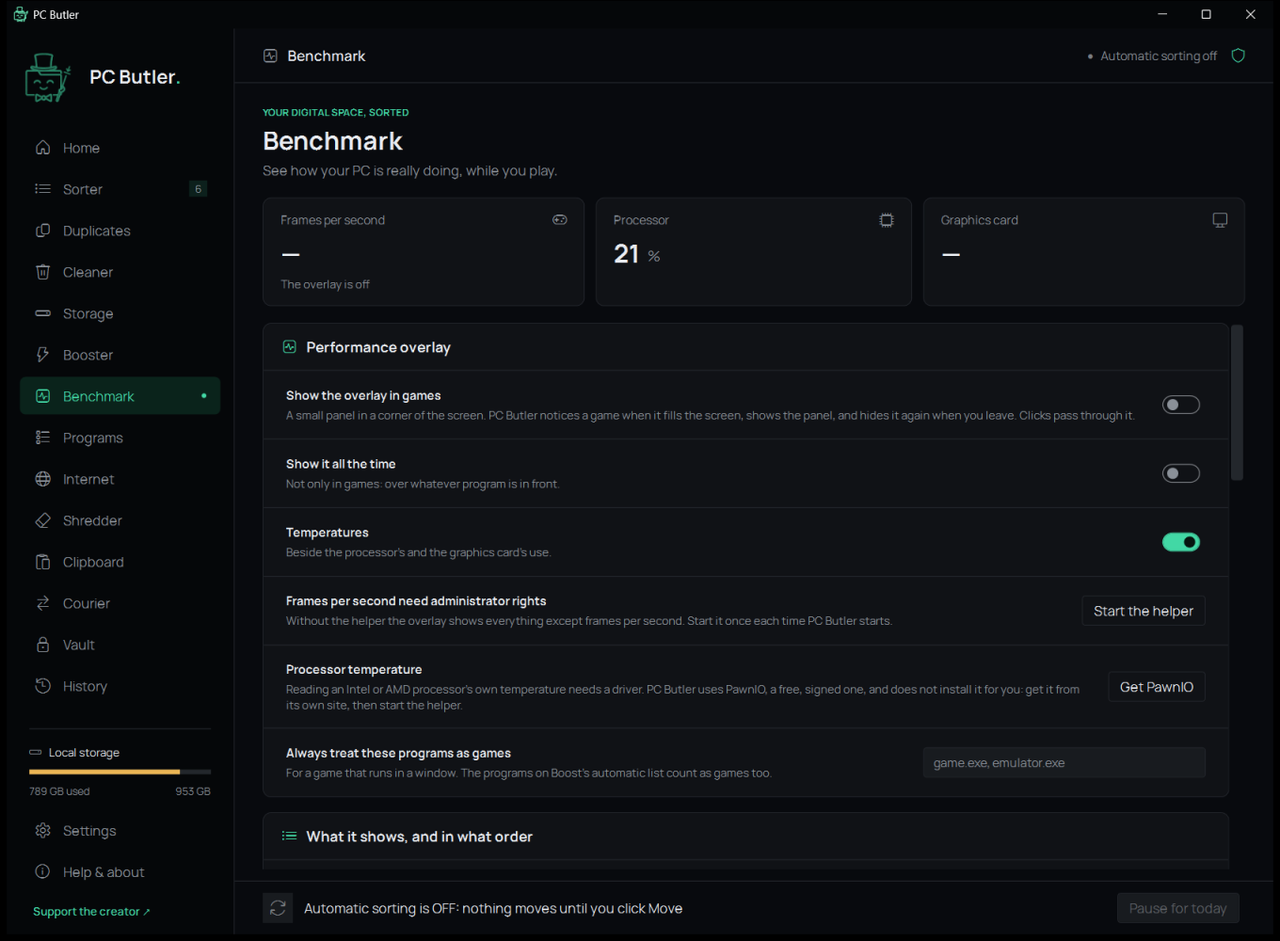
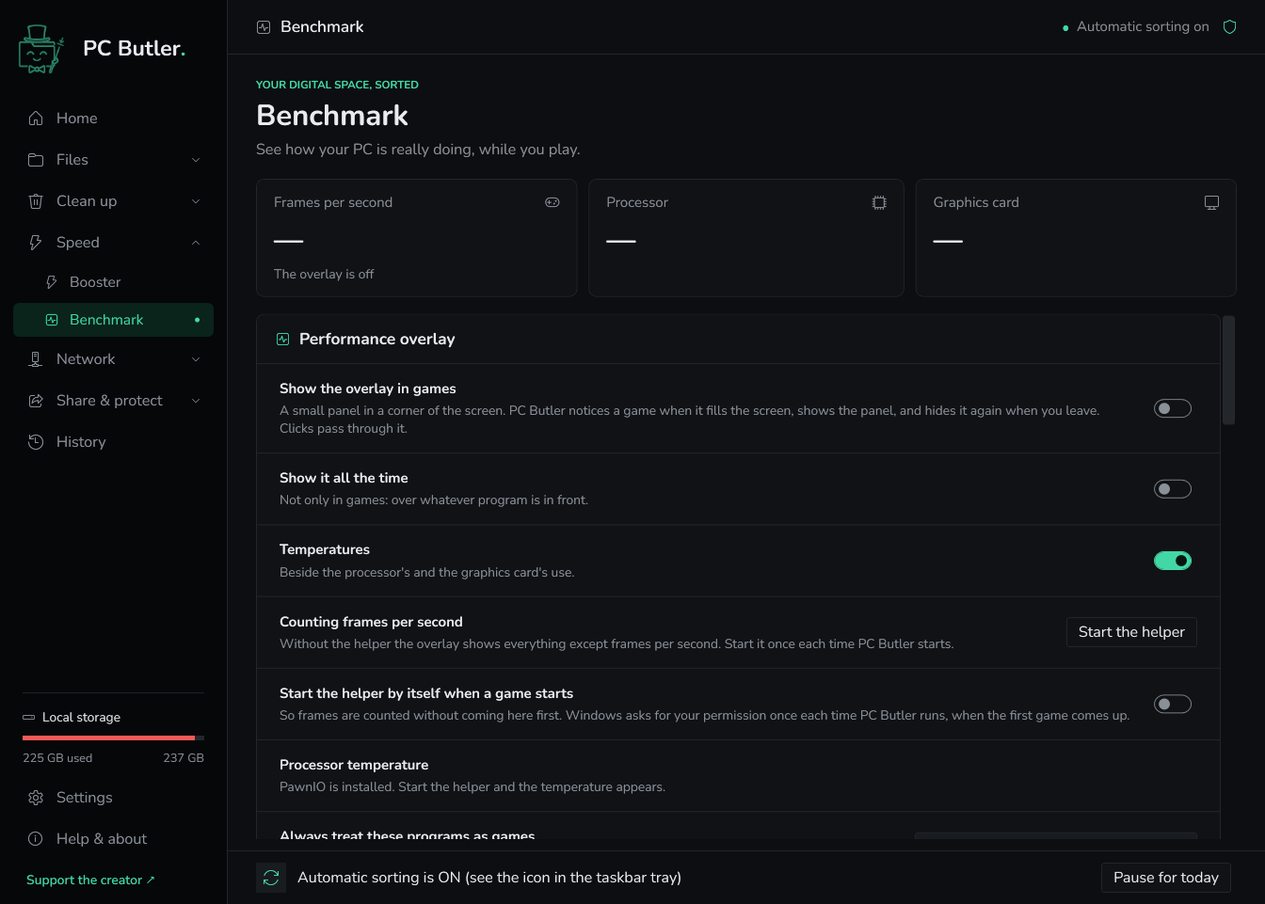
Docs and screenshots brought up to date (1.22.44)
New EN and AR screenshots (Home, Sorter, Booster Advanced, Benchmark,
Scan LAN, Get the phone app) drawn from the current build with made-up
data. README describes Search, the command palette, Scan LAN, the sidebar
groups and the Android app; HANDOVER rows for 1.22.41 to 1.22.43; the
Android privacy policy covers clipboard, apps and benchmark.

diff --git a/src/PCButler.Core/AppInfo.cs b/src/PCButler.Core/AppInfo.cs
@@ -7,7 +7,7 @@ public static class AppInfo
 {
     public const string Name = "PC Butler";
     /// <summary>Must match the tag of the GitHub release this is published as (v1.22.17).</summary>
-    public const string Version = "1.22.43";
+    public const string Version = "1.22.44";
     /// <summary>Where updates are looked for.</summary>
     public const string Repo = "hmodymac8-droid/PC-Butler";
     public const string ExeName = "PCButler.exe";

diff --git a/README.md b/README.md
@@ -2,7 +2,7 @@
 
 **English** | [العربية](#العربية)
 
-A small Windows program that keeps your PC tidy. It moves files that have been sitting in your Downloads folder for a while into category folders (Documents, Pictures, Videos…), either automatically in the background or only when you say so, and every change is logged and can be undone. It also finds duplicate files, cleans junk files, shows what fills your drives, trims startup apps, uninstalls and updates programs, measures your internet speed and keeps private files in an encrypted vault.
+A small Windows program that keeps your PC tidy. It moves files that have been sitting in your Downloads folder for a while into category folders (Documents, Pictures, Videos…), either automatically in the background or only when you say so, and every change is logged and can be undone. It also finds duplicate files, cleans junk files, shows what fills your drives, trims startup apps, uninstalls and updates programs, finds any file in an instant, measures your internet speed, lists the devices on your network, sends files to your other PCs and your phone, and keeps private files in an encrypted vault. A companion app for Android phones does much the same on the phone.
 
 PC Butler is the C# rewrite of [Downloads Sorter](https://github.com/hmodymac8-droid/downloads-sorter), with the same look and everything it could do, plus the pages added since. On first start it brings along Downloads Sorter's settings, history and vault (it copies them; the old program keeps working).
 
@@ -14,9 +14,15 @@ PC Butler is the C# rewrite of [Downloads Sorter](https://github.com/hmodymac8-d
 
 ![PC Butler: the Benchmark page](docs/screenshot-benchmark.png)
 
+![PC Butler: the Scan LAN page](docs/screenshot-lan.png)
+
+The pages sit in groups in the sidebar: **Files** (Search, Sorter, Duplicates, Storage), **Clean up** (Cleaner, Programs, Shredder), **Speed** (Booster, Benchmark), **Network** (Internet, Scan LAN) and **Share & protect** (Courier, Clipboard, Vault), with Home and History on their own.
+
 ## Features
 
 - **Home.** The PC at a glance, on ring gauges: processor, memory and graphics-card use, the graphics card's temperature, free space on every drive, and a neatness score out of 100 with the reasons it lost points. The tray icon shows processor and memory use and warns when they stay nearly full.
+- **Search.** Every file and folder on your drives, found as you type, from an index PC Butler keeps up to date by itself (no administrator rights). Win + F opens a search box from any program.
+- **Command palette.** Alt + Space in any program opens one box for everything: type a few letters to jump to a page or a Settings tab or to run an action (Sort now, Boost, the overlay, Check for updates…), with matching files underneath. `=` works out sums, sizes and transfer times.
 - **Sorts by age and type.** Files older than a set number of days (7 by default) move into category folders by file extension. Each category can have its own age, and can delete its files (to the Recycle Bin) instead of moving them.
 - **Preview first.** See exactly which files will move and where before anything happens, and exclude the ones you want to keep.
 - **Automatic mode.** Runs in the background with a tray icon, checks on a schedule (every so many minutes, daily or weekly at a time you set), and can start with Windows (a separate switch). Cleaning can be scheduled the same way. After each run a report window lets you approve or undo what moved.
@@ -28,6 +34,7 @@ PC Butler is the C# rewrite of [Downloads Sorter](https://github.com/hmodymac8-d
 - **Benchmark.** A performance overlay for games: frames per second and frame time, processor, graphics card, memory (RAM) and video memory (VRAM), temperatures, the graphics card's fan, network speed and a clock in a corner of the screen, each with its own tick box. You arrange it yourself: the order of the readings, a column or one line, its size, how far from the corner, and its colours. PC Butler notices a game when it fills the screen and shows the overlay by itself, or it can stay on all the time; it is off until you switch it on, and clicks pass through it. It is an ordinary window on top, so it shows over windowed and borderless games, not over exclusive full screen. Frames per second are counted by the administrator helper from Windows' own events, with nothing added to the game. Each game session is kept with its average and highest frame rate, the slowest 1% and the hottest temperatures. PC Butler also records what each app uses of the processor, the graphics card, the memory and the disk (and of the internet, while the helper runs), day by day for 90 days, for a report that can be saved as a spreadsheet.
 - **Programs.** Every installed program in one list, with the drive it is on and a filter by drive; double-click one to open it. Uninstall runs the program's own uninstaller and then shows what it left behind (folders, shortcuts, its own registry key) for you to tick: folders go to the Recycle Bin, registry keys are saved to a `.reg` file first. Updates come from winget, Windows' package manager.
 - **Internet.** A speed test: download, upload and response time, measured against Cloudflare's speed-test servers, with a history of earlier results. The page also shows the PC's local and public IP address, each with a Copy button.
+- **Scan LAN.** Lists every device on your network (the same Wi-Fi or cable) with its IP and MAC address, its name, the maker of its network adapter, what kind of device it probably is and whether it is online now, with its ping time. Phones and PCs that ignore pings are found too, as every address is also asked for its MAC address. Each device can be copied, connected to (its web page, shared folders, Remote Desktop, SSH, VNC, or Courier to send it files), given a name of your own, and opened in Info. Devices seen before stay listed as offline, with when they were last seen.
 - **Vault.** Password-protected storage: files you add are encrypted (AES-256) and removed from where they were.
 - **Auto clean-up.** Optionally recycle old files in a category (for example installers after 90 days). Only files the program itself moved are touched.
 - **Never-move list.** Protect files by name or pattern (`*.torrent`). Files you put back with Undo are not moved again automatically.
@@ -40,8 +47,17 @@ PC Butler is the C# rewrite of [Downloads Sorter](https://github.com/hmodymac8-d
 - **Hotkeys.** Shortcuts that work in any program, set on a tab of the Settings page: open PC Butler, sort now, start or stop Boost for the program in front, show or hide the overlay or the drop zone, open Courier.
 - **English and Arabic.** The interface follows Windows' language, or you pick one in Settings.
 - **Clipboard manager.** Keeps what you copy (text, files, pictures; 500 items by default), with search and pinning. An item can be locked with a password: it is kept encrypted, shows nothing of itself, and asks for the password when it is pasted, unless you unlock it for a while. A shortcut opens the list in any program and pastes the item you pick. Off until you turn it on.
+- **Phone app.** *Help & about > Get the phone app* shows a QR code: scan it with the phone's camera to download the Android app, no Play Store needed (the link always gives the latest build). See *Phone app* below.
 - **Updates.** Checks this repository's releases, notifies you when a new version is out, and updates with one click (or automatically, if you turn that on).
 - **Safe by design.** Unfinished downloads and shortcuts are skipped, nothing is ever overwritten, and deletions go to the Recycle Bin unless you choose to delete for good.
+
+## Phone app (Android)
+
+PC Butler for Android is a companion for the phone: Courier (send files and folders to and from your PCs by the same nine-digit IDs, with notifications when they arrive), Clipboard (send what you copied to the PC and back, with a floating button that sends it in one tap), Sorter, Duplicates, Storage, Cleaner, Search, Apps (open, inspect or uninstall apps), Benchmark (the phone's processor and storage measured), a Vault and History, in English and Arabic.
+
+![The Get the phone app window](docs/screenshot-phone-app.png)
+
+Get it from *Help & about > Get the phone app* on the PC, or straight from [dist/android/PCButler.apk](dist/android/PCButler.apk). Android asks once to allow installing from that source. The Google Play version is the same app without "Send what I copy by itself", which Google Play does not allow; the downloaded one has it. The app's privacy policy is in [docs/privacy-policy.md](docs/privacy-policy.md).
 
 ## Administrator rights
 
@@ -80,13 +96,16 @@ This publishes the program with the .NET runtime included (nothing else is neede
 |---|---|
 | `src/PCButler.Core` | The engine: settings, rules, moving, history, undo, Recycle Bin, duplicates, cleaner, storage, booster and Boost, the administrator helper, installed programs, speed test, vault, updates and the background loop |
 | `src/PCButler` | The windows (WPF): control panel, tray icon, report window, launch screen |
+| `src/PCButler.Android` | The Android phone app (.NET MAUI), sharing the engine's Courier, sorting and vault code |
 | `tests/PCButler.Tests` | Tests of the engine |
 | `installer/installer.iss` | The setup wizard (Inno Setup script) |
 | `build.ps1` | Publishes the program and compiles the setup wizard |
+| `build-android.ps1` | Builds and signs the phone app and copies it to `dist/android/PCButler.apk` (`-Bundle` makes the Google Play bundle) |
+| `docs/` | Screenshots, the phone app's privacy policy and the plan for search |
 
 Settings, the history log, the activity log and registry backups are stored in `%APPDATA%\PCButler`.
 
-The speed test and the public-IP line talk to `speed.cloudflare.com` and update checks talk to GitHub and winget's source. Courier talks only to the other PCs, and only while it is switched on. It also uses the public directory of the BitTorrent network (its DHT) to look IDs up: the computers in that directory see this PC's internet address, as they do for anyone using a torrent program, and no file or file name is ever sent to them. Each PC running Courier also asks its own router to forward one port to it. Nothing else leaves the PC.
+The speed test and the public-IP line talk to `speed.cloudflare.com` and update checks talk to GitHub and winget's source. Scan LAN talks only to devices on your own network, apart from reading the list of adapter makers from Wireshark's public list once every 120 days. Courier talks only to the other PCs, and only while it is switched on. It also uses the public directory of the BitTorrent network (its DHT) to look IDs up: the computers in that directory see this PC's internet address, as they do for anyone using a torrent program, and no file or file name is ever sent to them. Each PC running Courier also asks its own router to forward one port to it. Nothing else leaves the PC.
 
 ## Support the project
 
@@ -112,13 +131,31 @@ The bundled fonts in `src/PCButler/Fonts`, [DM Sans](https://github.com/googlefo
 
 [English](#pc-butler) | **العربية**
 
-برنامج صغير لنظام ويندوز يحافظ على ترتيب جهازك. ينقل الملفات التي بقيت في مجلد التنزيلات لفترة إلى مجلدات مصنّفة (مستندات، صور، فيديو…)، إما تلقائيًا في الخلفية أو فقط عندما تطلب ذلك، وكل تغيير يُسجَّل ويمكن التراجع عنه. كما يعثر على الملفات المكررة، وينظّف الملفات غير الضرورية، ويعرض ما يملأ أقراصك، ويخفّف برامج بدء التشغيل، ويلغي تثبيت البرامج ويحدّثها، ويقيس سرعة الإنترنت، ويحفظ الملفات الخاصة في خزنة مشفّرة.
+برنامج صغير لنظام ويندوز يحافظ على ترتيب جهازك. ينقل الملفات التي بقيت في مجلد التنزيلات لفترة إلى مجلدات مصنّفة (مستندات، صور، فيديو…)، إما تلقائيًا في الخلفية أو فقط عندما تطلب ذلك، وكل تغيير يُسجَّل ويمكن التراجع عنه. كما يعثر على الملفات المكررة، وينظّف الملفات غير الضرورية، ويعرض ما يملأ أقراصك، ويخفّف برامج بدء التشغيل، ويلغي تثبيت البرامج ويحدّثها، ويعثر على أي ملف فورًا، ويقيس سرعة الإنترنت، ويعرض الأجهزة المتصلة بشبكتك، ويرسل الملفات إلى حواسيبك الأخرى وجوالك، ويحفظ الملفات الخاصة في خزنة مشفّرة. وله تطبيق مرافق لجوالات أندرويد يقوم بأغلب ذلك على الجوال.
 
 PC Butler هو إعادة كتابة لبرنامج [Downloads Sorter](https://github.com/hmodymac8-droid/downloads-sorter) بلغة C#، بالشكل نفسه وبكل ما كان يفعله، مع الصفحات التي أُضيفت بعده. عند أول تشغيل ينسخ إعدادات Downloads Sorter وسجله وخزنته (نسخًا، فيبقى البرنامج القديم يعمل).
+
+</div>
+
+![PC Butler: الصفحة الرئيسية](docs/screenshot-ar.png)
+
+![PC Butler: صفحة الفرز](docs/screenshot-sorter-ar.png)
+
+![PC Butler: تبويب «متقدّم» في المسرّع](docs/screenshot-booster-ar.png)
+
+![PC Butler: صفحة قياس الأداء](docs/screenshot-benchmark-ar.png)
+
+![PC Butler: صفحة فحص الشبكة](docs/screenshot-lan-ar.png)
+
+<div dir="rtl">
+
+الصفحات مجمّعة في الشريط الجانبي: **الملفات** (البحث، الفرز، المكررات، التخزين)، و**التنظيف** (المنظّف، البرامج، الحذف العميق)، و**السرعة** (المسرّع، قياس الأداء)، و**الشبكة** (الإنترنت، فحص الشبكة)، و**المشاركة والحماية** (الساعي، الحافظة، الخزنة)، والرئيسية والسجل كلٌّ وحده.
 
 ### المميزات
 
 - **الرئيسية.** جهازك في لمحة، على عدّادات دائرية: استهلاك المعالج والذاكرة وكرت الشاشة، وحرارة كرت الشاشة، والمساحة الحرة في كل قرص، ونقاط ترتيب من 100 مع أسباب الخصم. أيقونة البرنامج بجانب الساعة تعرض استهلاك المعالج والذاكرة وتنبّه عند امتلائهما المستمر.
+- **البحث.** كل ملف ومجلد على أقراصك يظهر وأنت تكتب، من فهرس يحدّثه PC Butler بنفسه (دون صلاحيات المسؤول). و Win + F يفتح مربع بحث من أي برنامج.
+- **لوحة الأوامر.** Alt + Space في أي برنامج يفتح مربعًا واحدًا لكل شيء: اكتب بضعة أحرف للانتقال إلى صفحة أو تبويب في الإعدادات أو لتنفيذ أمر (الفرز الآن، التعزيز، لوحة الأداء، البحث عن تحديثات…)، والملفات المطابقة تظهر تحتها. و `=` يحسب العمليات والأحجام وأوقات النقل.
 - **الفرز حسب العمر والنوع.** الملفات الأقدم من عدد محدد من الأيام (7 افتراضيًا) تُنقل إلى مجلدات التصنيف حسب امتداد الملف، ويمكن تحديد عمر مختلف لكل تصنيف، أو جعل التصنيف يحذف ملفاته (إلى سلة المحذوفات) بدل نقلها.
 - **المعاينة أولًا.** شاهد الملفات التي ستُنقل ووجهتها قبل أي تنفيذ، واستثنِ ما تريد إبقاءه.
 - **الوضع التلقائي.** يعمل في الخلفية مع أيقونة بجانب الساعة، ويفحص المجلد وفق جدول زمني (كل عدد من الدقائق، أو يوميًا أو أسبوعيًا في وقت تحدده)، ويبدأ مع تسجيل الدخول. ويمكن جدولة التنظيف بالطريقة نفسها. بعد كل عملية تظهر نافذة تقرير للموافقة على ما نُقل أو التراجع عنه.
@@ -130,6 +167,7 @@ PC Butler هو إعادة كتابة لبرنامج [Downloads Sorter](https://g
 - **قياس الأداء.** لوحة أداء للألعاب: الإطارات في الثانية وزمن الإطار والمعالج وكرت الشاشة والذاكرة (RAM) وذاكرة كرت الشاشة (VRAM) ودرجات الحرارة ومروحة الكرت وسرعة الشبكة والساعة في زاوية الشاشة، ولكل منها مربع اختيار. وترتّبها بنفسك: ترتيب القراءات، عمود أو سطر واحد، الحجم، البعد عن الزاوية، والألوان. يلاحظ PC Butler اللعبة عندما تملأ الشاشة فيُظهر اللوحة من تلقاء نفسه، أو تبقى ظاهرة دائمًا؛ وهي متوقفة حتى تفعّلها، والنقرات تمرّ من خلالها. هي نافذة عادية فوق النوافذ، فتظهر فوق الألعاب التي تعمل في نافذة أو بلا إطار، لا فوق وضع ملء الشاشة الحصري. الإطارات يعدّها مساعد المسؤول من أحداث ويندوز نفسه دون إضافة شيء إلى اللعبة. وتُحفظ كل جلسة لعب بمتوسط الإطارات وأعلاها وأبطأ 1% وأعلى درجات الحرارة. ويسجّل PC Butler أيضًا ما يستهلكه كل تطبيق من المعالج وكرت الشاشة والذاكرة والقرص (ومن الإنترنت أثناء عمل المساعد)، يومًا بيوم لمدة 90 يومًا، في تقرير يمكن حفظه كجدول بيانات.
 - **البرامج.** كل البرامج المثبّتة في قائمة واحدة، مع القرص الذي عليه كل برنامج وفلتر حسب القرص، والنقر المزدوج يفتح البرنامج. إلغاء التثبيت يشغّل برنامج الإزالة الخاص بالبرنامج ثم يعرض ما تركه خلفه (مجلدات، اختصارات، مفتاحه في السجل) لتختار منه: المجلدات تذهب إلى سلة المحذوفات، ومفاتيح السجل تُحفظ أولًا في ملف `.reg`. التحديثات تأتي من winget، مدير الحزم الخاص بويندوز.
 - **الإنترنت.** قياس السرعة: التنزيل والرفع وزمن الاستجابة، مقابل خوادم Cloudflare لقياس السرعة، مع سجل للنتائج السابقة. وتعرض الصفحة عنوان IP المحلي والعام للحاسوب، ولكل منهما زر «نسخ».
+- **فحص الشبكة.** يعرض كل جهاز على شبكتك (نفس الواي فاي أو الكيبل) مع عنوان IP وعنوان MAC واسمه والشركة المصنعة لبطاقة الشبكة فيه ونوعه المرجّح وهل هو متصل الآن مع زمن الاستجابة. تظهر حتى الجوالات والأجهزة التي لا ترد على ping، لأن كل عنوان يُسأل أيضًا عن عنوان MAC الخاص به. لكل جهاز: نسخ، واتصال (صفحته على المتصفح، أو مجلداته المشاركة، أو سطح المكتب البعيد، أو SSH أو VNC، أو الساعي لإرسال ملفات إليه)، وتسمية باسم من اختيارك، ومعلومات. الأجهزة التي ظهرت من قبل تبقى في القائمة كغير متصلة مع آخر وقت شوهدت فيه.
 - **الخزنة.** مساحة محمية بكلمة مرور: الملفات التي تضيفها تُشفَّر (AES-256) وتُزال من مكانها الأصلي.
 - **التنظيف التلقائي.** خيار لإرسال الملفات القديمة في تصنيف معيّن إلى سلة المحذوفات (مثل ملفات التثبيت بعد 90 يومًا). لا يمسّ إلا الملفات التي نقلها البرنامج نفسه.
 - **قائمة «لا تنقل أبدًا».** احمِ ملفات معيّنة بالاسم أو بالنمط (مثل `*.torrent`). الملفات التي أعدتها بالتراجع لا تُنقل تلقائيًا مرة أخرى.
@@ -141,12 +179,26 @@ PC Butler هو إعادة كتابة لبرنامج [Downloads Sorter](https://g
 - **ما الجديد.** بعد كل تحديث تظهر نافذة بما تغيّر، والقائمة الكاملة في [CHANGELOG.ar.md](CHANGELOG.ar.md).
 - **الاختصارات.** اختصارات تعمل في أي برنامج، تُضبط في تبويب من صفحة الإعدادات: فتح PC Butler، والفرز الآن، وتشغيل التعزيز أو إيقافه للبرنامج الذي في الواجهة، وإظهار اللوحة أو منطقة الإفلات أو إخفاؤهما، وفتح الساعي.
 - **العربية والإنجليزية.** الواجهة تتبع لغة ويندوز، أو تختار اللغة من الإعدادات.
+- **مدير الحافظة.** يحتفظ بما تنسخه (نصوص وملفات وصور؛ 500 عنصر افتراضيًا) مع البحث والتثبيت. ويمكن قفل عنصر بكلمة مرور: يُحفظ مشفّرًا ولا يظهر منه شيء، ويطلب كلمة المرور عند لصقه إلا إذا فتحته لفترة. اختصار يفتح القائمة في أي برنامج ويلصق العنصر الذي تختاره. متوقف حتى تشغّله.
+- **تطبيق الجوال.** «المساعدة وحول ← تطبيق الجوال» يعرض رمز QR: امسحه بكاميرا الجوال لتنزيل تطبيق الأندرويد دون متجر Play (الرابط يعطي دائمًا أحدث نسخة). انظر «تطبيق الجوال» أدناه.
 - **التحديثات.** يتحقق من إصدارات هذا المستودع، وينبّهك عند صدور نسخة جديدة، ويحدّث نفسه بضغطة واحدة (أو تلقائيًا إذا فعّلت ذلك).
 - **آمن في تصميمه.** يتجاوز التنزيلات غير المكتملة والاختصارات، ولا يستبدل أي ملف موجود، والحذف يكون إلى سلة المحذوفات إلا إذا اخترت الحذف النهائي.
 
+### تطبيق الجوال (أندرويد)
+
+PC Butler للأندرويد مرافق للجوال: الساعي (إرسال الملفات والمجلدات من حواسيبك وإليها بالمعرّفات نفسها ذات الأرقام التسعة، مع إشعار عند وصولها)، والحافظة (أرسل ما نسخته إلى الحاسوب والعكس، مع زر عائم يرسله بضغطة)، والفرز، والمكررات، والتخزين، والمنظّف، والبحث، والتطبيقات (فتحها أو معلوماتها أو إلغاء تثبيتها)، وقياس الأداء (معالج الجوال وتخزينه)، وخزنة، والسجل، بالعربية والإنجليزية.
+
+</div>
+
+![نافذة «تطبيق الجوال»](docs/screenshot-phone-app-ar.png)
+
+<div dir="rtl">
+
+نزّله من «المساعدة وحول ← تطبيق الجوال» على الحاسوب، أو مباشرة من [dist/android/PCButler.apk](dist/android/PCButler.apk). يطلب أندرويد مرة واحدة السماح بالتثبيت من هذا المصدر. نسخة Google Play هي التطبيق نفسه بدون «أرسل ما أنسخه تلقائيًا» لأن Google Play لا يسمح بها، والنسخة المحمّلة فيها الميزة. سياسة خصوصية التطبيق في [docs/privacy-policy.md](docs/privacy-policy.md).
+
 ### صلاحيات المسؤول
 
-PC Butler لا يعمل أبدًا بصلاحيات المسؤول. حرارة كرت الشاشة لا تحتاج أي صلاحيات. أما حرارة المعالج نفسه، Intel أو AMD، فلا تُقرأ إلا عبر تعريف (driver) و PC Butler لا يثبّت تعريفات: إذا ثبّتَّ بنفسك تعريف [PawnIO](https://pawnio.eu) المجاني الموقَّع قرأ المساعد حرارة المعالج من خلاله؛ وإذا كان LibreHardwareMonitor يعمل يعرض PC Butler قراءاته. أشياء قليلة تحتاج صلاحيات المسؤول وكلها اختيارية: قراءة حساسات اللوحة الأم للحرارة والمراوح (الصفحة الرئيسية)، وإيقاف الخدمات مؤقتًا أثناء التعزيز، وتغييرات تبويب «متقدّم» في الخدمات وإعدادات الجهاز، وإيقاف تحديثات ويندوز وتغيير اسم الحاسوب (كلاهما في الإعدادات)، وعدّ الإطارات في الثانية وقراءة حرارة المعالج (قياس الأداء)، وقاعدة جدار الحماية للساعي. لها يشغّل PC Butler مساعدًا صغيرًا، نسخة ثانية منه، فقط عندما تطلب وبعد موافقتك على نافذة ويندوز. المساعد يقرأ الحساسات، ويوقف أو يشغّل ثلاث خدمات محددة (Print Spooler و Connected User Experiences and Telemetry و SysMain)، ويطبّق تغييرات القائمة الثابتة في تبويب «متقدّم» ويعيدها، ويوقف تحديثات ويندوز، ويغيّر اسم الحاسوب، ويضيف قاعدة جدار الحماية، ولا شيء غير ذلك. يعيد تشغيل الخدمات الموقوفة مؤقتًا وينتهي عند إغلاق PC Butler.
+PC Butler لا يعمل أبدًا بصلاحيات المسؤول. حرارة كرت الشاشة لا تحتاج أي صلاحيات. أما حرارة المعالج نفسه، Intel أو AMD، فلا تُقرأ إلا عبر تعريف (driver) و PC Butler لا يثبّت تعريفات: إذا ثبّتَّ بنفسك تعريف [PawnIO](https://pawnio.eu) المجاني الموقَّع قرأ المساعد حرارة المعالج من خلاله؛ وإذا كان LibreHardwareMonitor يعمل يعرض PC Butler قراءاته. أشياء قليلة تحتاج صلاحيات المسؤول وكلها اختيارية: قراءة حساسات اللوحة الأم للحرارة والمراوح (الصفحة الرئيسية)، وإيقاف الخدمات مؤقتًا أثناء التعزيز، وتغييرات تبويب «متقدّم» في الخدمات وإعدادات الجهاز، وإيقاف تحديثات ويندوز وتغيير اسم الحاسوب (كلاهما في الإعدادات)، وعدّ الإطارات في الثانية وقراءة حرارة المعالج (قياس الأداء)، وعدّ استهلاك كل تطبيق من الإنترنت (قياس الأداء)، وقاعدة جدار الحماية للساعي. لها يشغّل PC Butler مساعدًا صغيرًا، نسخة ثانية منه، فقط عندما تطلب وبعد موافقتك على نافذة ويندوز. المساعد يقرأ الحساسات، ويوقف أو يشغّل ثلاث خدمات محددة (Print Spooler و Connected User Experiences and Telemetry و SysMain)، ويطبّق تغييرات القائمة الثابتة في تبويب «متقدّم» ويعيدها، ويوقف تحديثات ويندوز، ويغيّر اسم الحاسوب، ويضيف قاعدة جدار الحماية، ويعدّ الإطارات التي تعرضها البرامج واستهلاك كل برنامج من الإنترنت (الكميات فقط)، ويقرأ حرارة المعالج، ولا شيء غير ذلك. يعيد تشغيل الخدمات الموقوفة مؤقتًا وينتهي عند إغلاق PC Butler.
 
 إيقاف تحديثات ويندوز يوقف الإصلاحات الأمنية أيضًا، فتقلّ حماية الجهاز كلما طال الإيقاف.
 
@@ -184,6 +236,8 @@ dotnet run --project tests/PCButler.Tests
 ### أين تُحفظ البيانات
 
 الإعدادات وسجل التغييرات وسجل النشاط تُحفظ في المجلد `%APPDATA%\PCButler`.
+
+قياس السرعة وسطر عنوان IP العام يتصلان بـ `speed.cloudflare.com`، والبحث عن التحديثات يتصل بـ GitHub وبمصدر winget. فحص الشبكة لا يتصل إلا بأجهزة شبكتك، عدا قراءة قائمة الشركات المصنعة من قائمة Wireshark العامة مرة كل 120 يومًا. والساعي لا يتصل إلا بالحواسيب الأخرى وفقط وهو مشغّل، ويستخدم الدليل العام لشبكة BitTorrent (DHT) للبحث عن المعرّفات: أجهزة هذا الدليل ترى عنوان الحاسوب على الإنترنت كما تراه لأي برنامج تورنت، ولا يُرسل إليها أي ملف أو اسم ملف. ولا يخرج من الجهاز شيء غير ذلك.
 
 ### ادعم المشروع
 

diff --git a/HANDOVER.md b/HANDOVER.md
@@ -92,7 +92,7 @@ All of it is written in WPF (`net10.0-windows`), built from code; the only XAML 
   (the summary cards and the headers' small print hide).
 - `Chrome.cs`: the `Page` base class (header, page buttons, summary cards), `Sidebar`,
   `NavItem`, `TopBar`, `SplashWindow`.
-- `Pages/`: the eight pages. `Dialogs.cs`: the category and vault change-password dialogs.
+- `Pages/`: one file per page (`MainWindow.PageList` lists all eighteen, `MainWindow.Groups` puts them in the sidebar's groups). `Dialogs.cs`: the category and vault change-password dialogs.
   `ReportWindow.cs`: the window after an automatic run. `Ui.cs`: shared building blocks.
 - Arabic: text goes through `Ui.T`. The layout is not mirrored. An implicit `TextBlock` style
   in `Theme.xaml` makes any text containing Arabic read right to left, so full stops and
@@ -152,6 +152,9 @@ The look now follows that mock-up, not `docs/reference`. Its colours are in `The
 | 1.14 | The feature is renamed Courier for the user (the code still says Portal). Courier over the internet by 12-digit ID, with no server of ours | `PortalInternet.cs` (ID, reachable, `ConnectById`), `PortalDht.cs` (bencode, a minimal BitTorrent-DHT client), `PortalTunnel.cs` (`PortalLink`: one UDP socket, hole punching; `ReliableStream`: reliable ordered bytes over UDP) | `Pages/PortalPage.cs` |
 | 1.22 | File search, phase 1 of `docs/search-plan.md` (no administrator rights): Search page, Win + F search box, Search tab in Settings | `Search/` in Core: `SearchIndex`, `SearchText`, `QueryParser`, `QueryCompiler`, `Searcher`, `IndexStore`, `SearchSettings`, `VolumeSource` (`FolderScanSource`, `FolderWatcher`), `SearchEngine` | `Pages/SearchPage.cs`, `SearchResults.cs`, `SearchPopup.cs`, `WinKeyHook.cs`, `Pages/SettingsSearch.cs`, `Hotkeys` in `Overlay.cs` |
 | 1.22.17 | Drop-zone butler, Resume yesterday, internet usage tracker | `SessionRestore.cs` (`SessionSnapshot`, `StartOfRun`, `Remember`, `Freeze`, `Resume`), `NetUsage.cs` (`NetUsageLog`, `NetUsageRecorder`) | `Butler.cs`, `DropZoneWindow.cs`, `TrayFlyout.cs` (resume button), `App.xaml.cs` (`StartResume`, `ResumeYesterday`, `TrackInternet`), `Pages/InternetPage.cs`, `Pages/SettingsPage.cs` |
+| 1.22.41 | Get the phone app: a QR code and link to the committed APK on `main` (see "Building and releasing") | | `PhoneAppWindow.cs` (QRCoder), button on `Pages/AboutPage.cs` |
+| 1.22.42 | Sidebar group Network (Internet, Scan LAN); Speed keeps Booster and Benchmark | | `MainWindow.Groups` |
+| 1.22.43 | Android 1.2.10: the Google Play build (`build-android.ps1 -Bundle`, `-p:PlayStore=true`, symbol `PLAY_STORE`) leaves out the "send what I copy" Accessibility service; the APK in `dist/android` keeps it | | `src/PCButler.Android` (`CopyWatcher`, manifest) |
 | 1.22.40 | Scan LAN page (Network group since 1.22.42): devices on this PC's network found by ping plus `SendARP` on every address (up to /22, else the /24 around the PC), names by reverse DNS then NetBIOS node status, a dozen well-known TCP ports tried for Connect and the kind guess, makers from Wireshark's `manuf` (IEEE's `oui.csv` as fall-back) cached as `oui.txt` for 120 days; devices and user names kept by MAC in `lan-devices.json` | `LanScan.cs` (`LanScanner`, `LanVendors`, `LanBook`) | `Pages/LanPage.cs` |
 
 Notes on 1.22.17:
@@ -216,8 +219,8 @@ Rules the owner set for these, which still hold:
 - No invented numbers: Boost shows what it measured (memory freed, programs changed), not an
   estimated speed-up.
 
-Asked for and not built yet: a manager for the right-click menu's entries (disable, not delete); clipboard history (encrypted, off by default); global hotkeys; unpacking
-archives and cleaning names; a grouped Sorter preview; and a per-file history. (The per-program network monitor is on the Internet page since 1.22.17.)
+Asked for and not built yet: a manager for the right-click menu's entries (disable, not delete); unpacking
+archives and cleaning names; a grouped Sorter preview; and a per-file history. (Clipboard history and global hotkeys were built in 1.18; the per-program network monitor is on the Internet page since 1.22.17.)
 
 ### Still to do
 
@@ -226,6 +229,8 @@ archives and cleaning names; a grouped Sorter preview; and a per-file history. (
 2. The copyright line stays `hmodymac8-droid` (the owner's decision).
 
 ## The design to match
+
+The screenshots in the README (`docs/screenshot*.png`, English, and `*-ar.png`, Arabic) are of 1.22.44. They were drawn with a small throwaway harness that references `src/PCButler`, renders `MainWindow` off screen with `RenderTargetBitmap` page by page (`MainWindow.ShowPage`), against a scratch data folder (`PCBUTLER_DATA`) with made-up Downloads files and made-up Scan LAN devices, so no real file names or network addresses are published. An Arabic render comes out mirrored and must be flipped back. Start `App.Usage` first or the Home gauges stay empty, and give each page its own run so only its sidebar group is open.
 
 Screenshots of the Python program are in `docs/reference/` (Sorter, Duplicates, Cleaner,
 Vault, About, splash). To see the other pages (Booster, History, Settings, the report window)

diff --git a/docs/privacy-policy.md b/docs/privacy-policy.md
@@ -1,12 +1,13 @@
 # PC Butler for Android: Privacy Policy
 
-Last updated: 13 October 2026 (no “All files access”)
+Last updated: 16 November 2026 (clipboard, apps, benchmark; no host relay)
 
 PC Butler (package `com.hmodymac8droid.pcbutler`) is made by hmodymac8-droid. This page says what the app does with your data. In short: **the app has no account, no server, no ads and no analytics. Your files stay on your devices.**
 
 ## What stays on your phone
 
 - **Sorter, Duplicates, Storage.** These tools read file names, sizes and dates on the phone's storage so they can sort Download, find copies and show what takes space. Everything is done on the phone. Nothing about your files is sent anywhere.
+- **Cleaner, Search, Apps, Benchmark.** The Cleaner and Search read the same folders you gave the app; Apps lists the apps installed on the phone so you can open, inspect or uninstall them (Android always asks before an uninstall); Benchmark writes a temporary test file in the app's own storage and deletes it. All of it stays on the phone.
 - **Recycle Bin.** Files you delete in Duplicates or Storage are moved to a folder that belongs to the app, so you can put them back. They stay on the phone until you empty the bin.
 - **Vault.** Files you add are encrypted on the phone (AES-GCM, with a key made from your password). The password is never stored or sent. Without it, nobody, including the developer, can open the vault.
 - **Settings and history** (paired devices, the list of past transfers) are saved only inside the app's private storage.
@@ -15,18 +16,26 @@ PC Butler (package `com.hmodymac8droid.pcbutler`) is made by hmodymac8-droid. Th
 
 Courier sends files directly between your phone and the computers you pair with it, across the internet.
 
-- **Files go device to device.** They are encrypted in transit (TLS) and never pass through a server run by the developer, because there is none. If you send to another PC through the host, the files pass through the host device you chose.
+- **Files go device to device.** They are encrypted in transit (TLS) and never pass through a server run by the developer, because there is none. They go straight from one of your devices to the other.
+- **Same network.** When the phone and the PC are on the same Wi-Fi, they find each other with a short announcement on the local network, which never leaves it.
 - **Pairing.** Each device makes its own certificate. You confirm a pairing code shown on both devices; only paired devices can send files.
 - **Finding each other.** To let your devices find each other across different networks, Courier publishes a short record in the public BitTorrent DHT, a worldwide directory run by its users. The record holds a key derived from your Courier ID and your device's public IP address and port. Anyone can read records in that directory, as with any internet connection, which also reveals your IP address to the device you connect to. The DHT contains no file names, file contents or personal details.
 - **Your router.** Courier may ask your own router (UPnP or NAT-PMP) to open a port for it while it runs.
 - **Received files** are saved to the phone's Download folder, in “PC Butler Courier”.
+
+## Clipboard
+
+- **Sending what you copied.** On the Clipboard page, or with the floating button, text you copied is sent to the PC you are connected to over Courier, and text the PC sends is put on the phone's clipboard. The texts are kept in the app's private storage (the newest 200, plus any you pin) and go nowhere else.
+- **Send what I copy by itself** (only in the app downloaded from PC Butler, not in the Google Play version): if you switch on its Accessibility service in Android's settings, the app is told when you copy something in any app and sends that text to the connected PC. It reads nothing else on the screen, and it does nothing until you switch it on.
 
 ## Permissions
 
 - **Folders you pick:** the Sorter, Duplicates and Storage work only in the folders you choose with Android's folder picker, and the Vault only takes the files you pick.
 - **Storage (Android 10 and older only):** so Courier and the Vault can save files to the Download folder.
 - **Notifications and foreground service:** to keep Courier connected and show transfer progress while the app is in the background.
-- **Internet and network state:** for Courier only.
+- **Internet and network state, Wi-Fi state and multicast:** for Courier only, to reach your devices and to find them on the same Wi-Fi.
+- **Display over other apps:** only for the floating clipboard button, when you switch it on.
+- **Request uninstalling apps:** so Apps can ask Android to uninstall an app you chose.
 
 ## Sharing and selling
 

diff --git a/CHANGELOG.ar.md b/CHANGELOG.ar.md
@@ -3,6 +3,10 @@
 يُعرض هذا الملف داخل البرنامج (المساعدة وحول، ومرة بعد كل تحديث).
 كل نسخة عنوان يبدأ بـ `##` تليه أسطر تبدأ بـ `- `.
 
+## 1.22.44
+
+- تحديث التوثيق: صور جديدة لكل الصفحات المعروضة في ملف README بالعربية والإنجليزية، ومنها فحص الشبكة ونافذة تطبيق الجوال؛ وصار README يشرح البحث ولوحة الأوامر وفحص الشبكة ومجموعات الشريط الجانبي وتطبيق الأندرويد، وسياسة خصوصية تطبيق الجوال تغطي ميزات الحافظة.
+
 ## 1.22.43
 
 - تطبيق الجوال (أندرويد 1.2.10): نسخة Google Play صارت بدون «أرسل ما أنسخه تلقائيًا»، لأن Google Play لا يسمح بخدمة إمكانية الوصول لهذا الغرض. كل شيء آخر نفسه، ومنه الزر العائم الذي يرسل المنسوخ بضغطة. نسخة الجوال المحمّلة من PC Butler (المساعدة وحول، تطبيق الجوال) ما زالت فيها الميزة.

diff --git a/CHANGELOG.md b/CHANGELOG.md
@@ -3,6 +3,10 @@
 This file is shown inside the program (Help & about, and once after each update).
 Each version is a `## heading` followed by `- ` lines.
 
+## 1.22.44
+
+- Documentation brought up to date: new screenshots of every page shown in the README, in English and Arabic, including Scan LAN and the Get the phone app window; the README now describes Search, the command palette, Scan LAN, the sidebar groups and the Android phone app, and the phone app's privacy policy covers the clipboard features.
+
 ## 1.22.43
 
 - Phone app (Android 1.2.10): the Google Play version leaves out "Send what I copy by itself", because Google Play does not allow its Accessibility service for this. Everything else is the same there, including the floating button that sends what's copied with one tap. The phone app downloaded from PC Butler (Help & about, Get the phone app) still has it.
